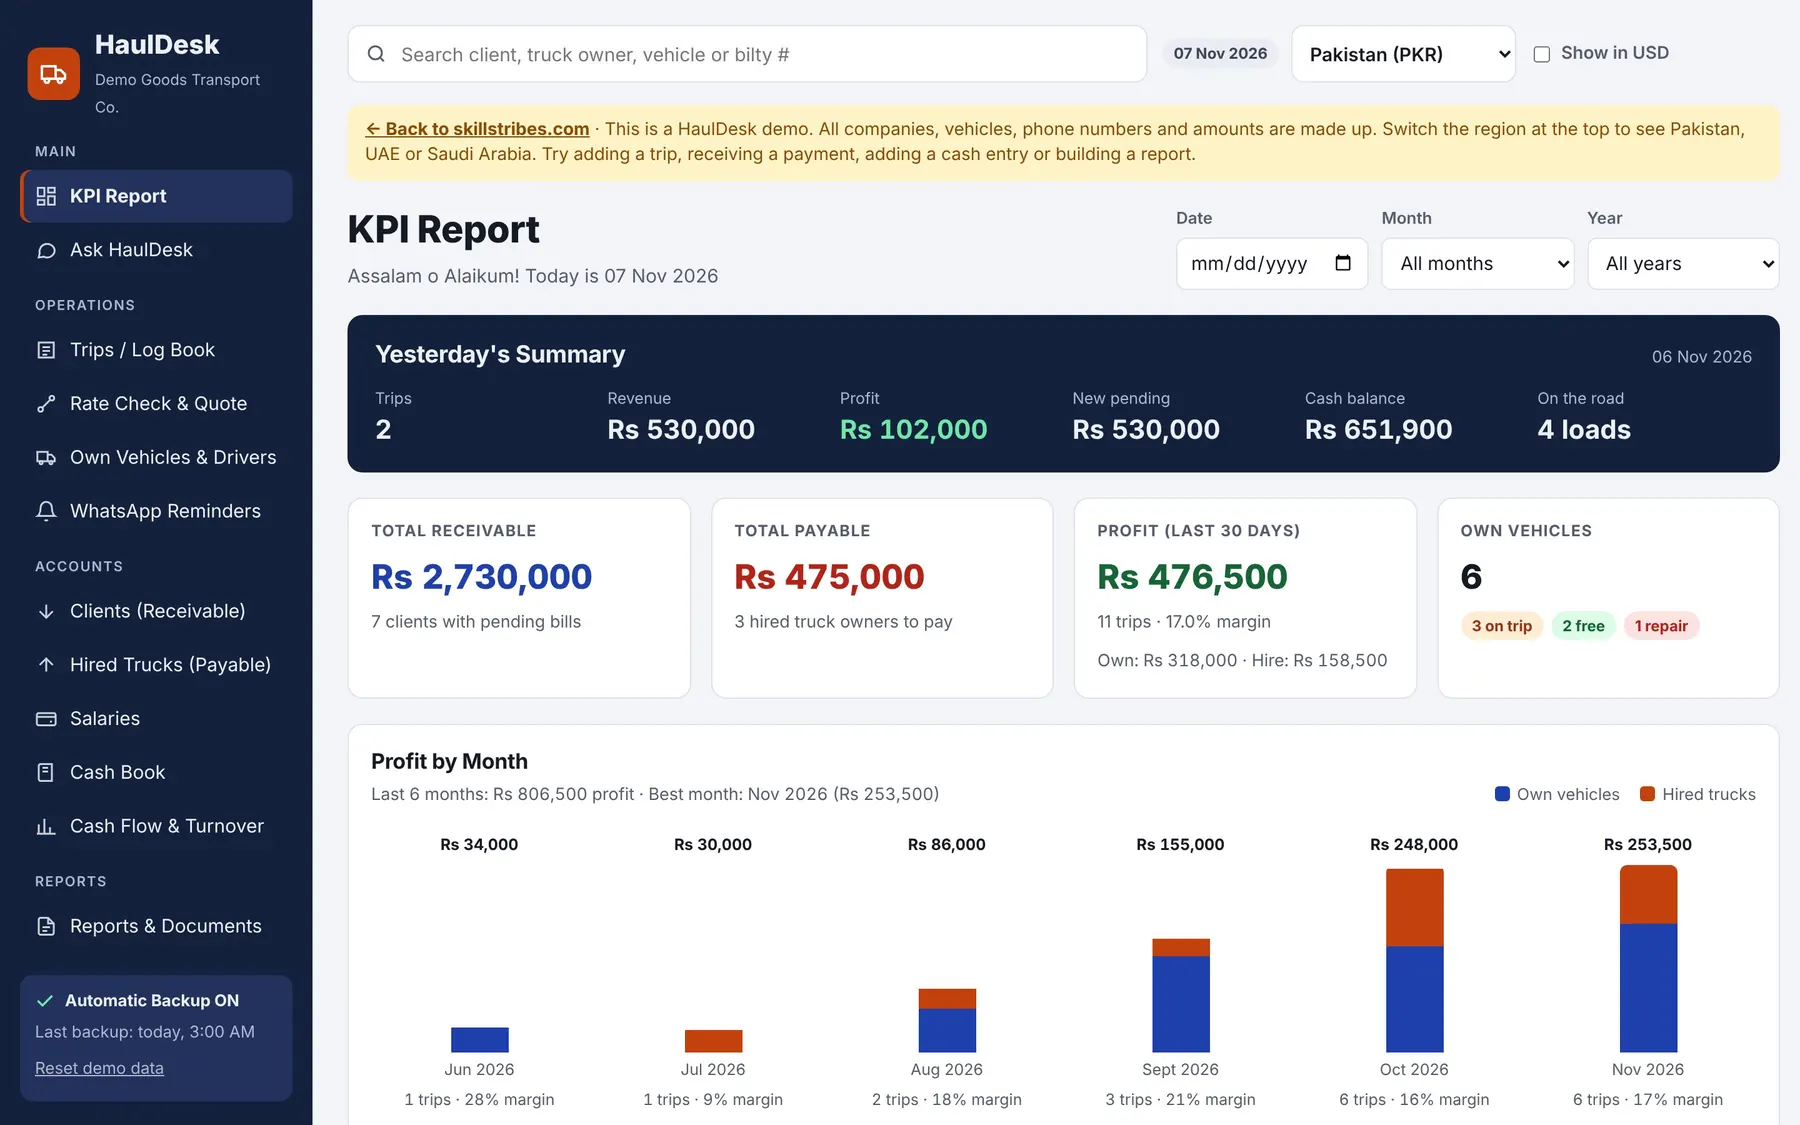
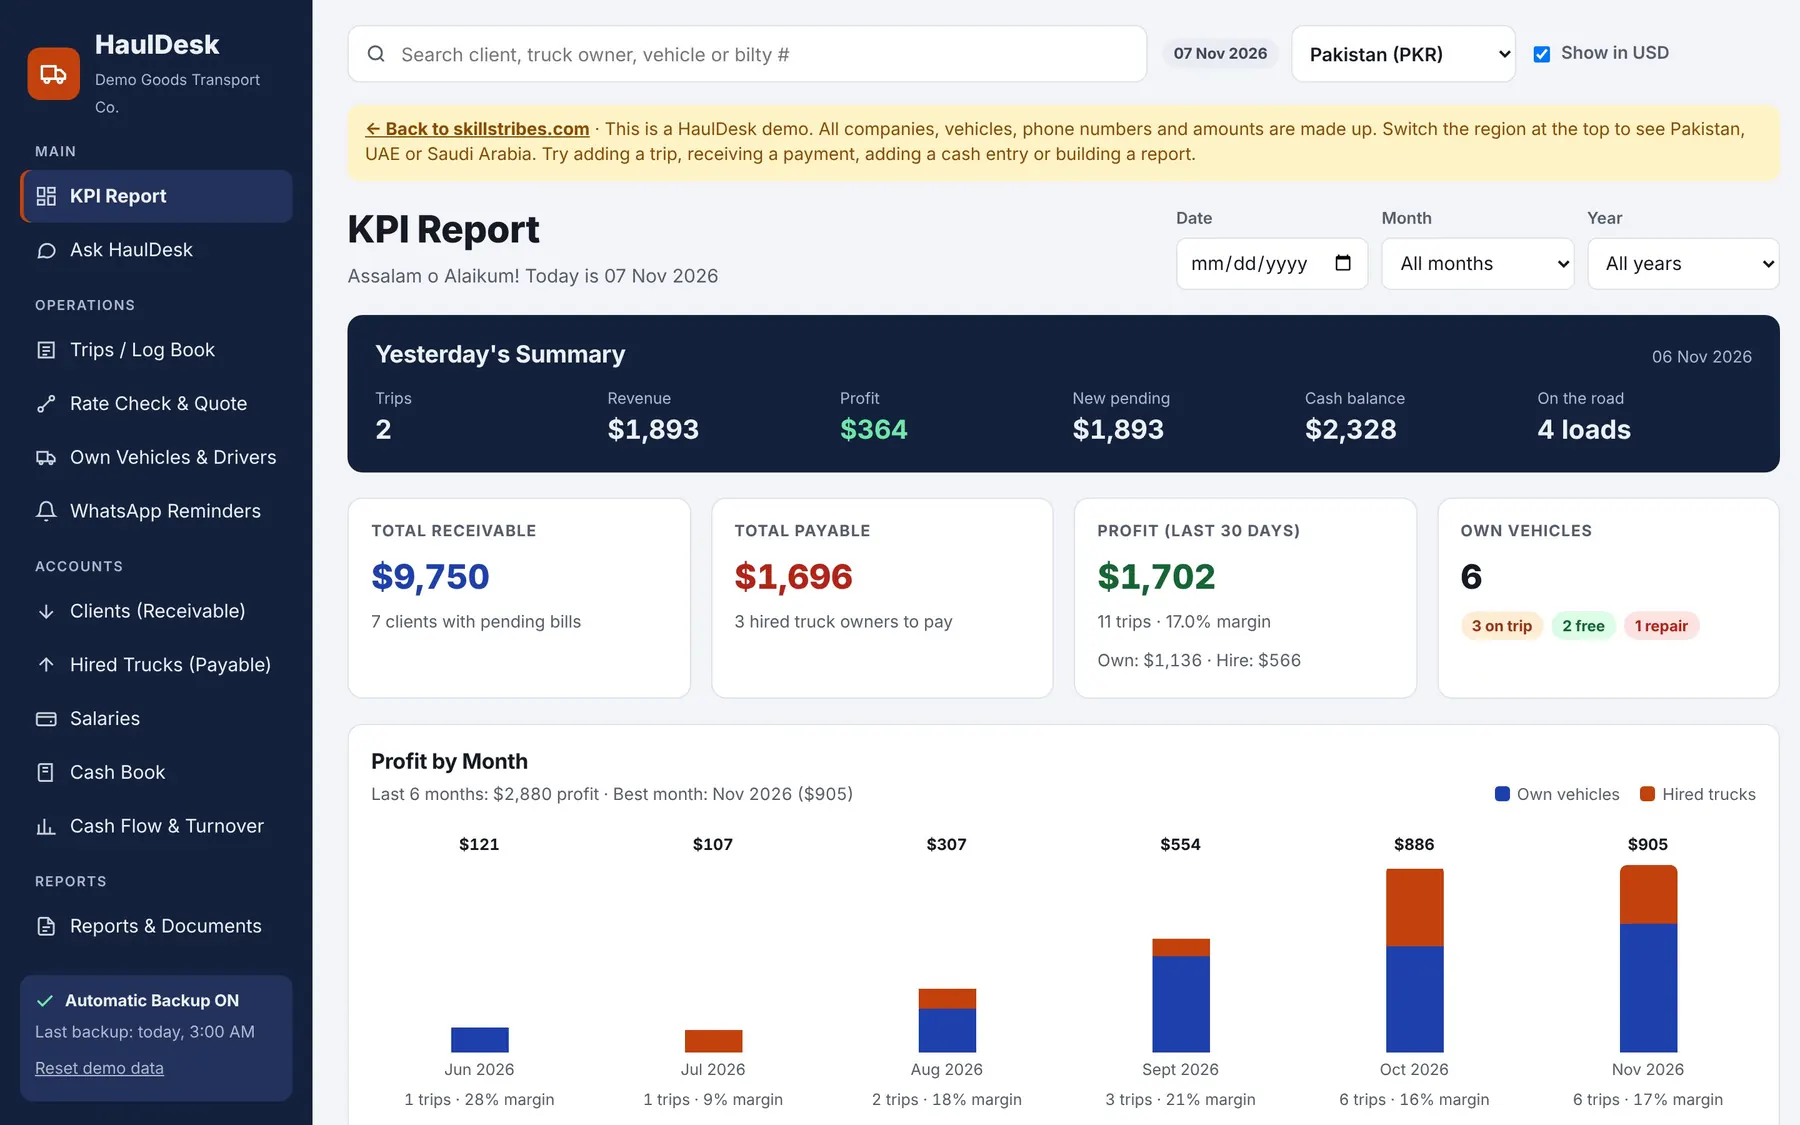
HaulDesk demo: show amounts in USD by default
Claude-Session: https://claude.ai/code/session_01M1yY9LcUB3ky4LG6SQ3n4a

diff --git a/hauldesk/demo/index.html b/hauldesk/demo/index.html
@@ -310,7 +310,7 @@ select.status{height:34px; border-radius:7px; border:1px solid var(--line); back
 <script src="https://cdnjs.cloudflare.com/ajax/libs/xlsx/0.18.5/xlsx.full.min.js"></script>
 <script>
 (function(){
-const LS='hauldesk-demo-v5';
+const LS='hauldesk-demo-v6';
 const pad=n=>String(n).padStart(2,'0');
 const today=new Date(); today.setHours(0,0,0,0);
 const iso=d=>d.getFullYear()+'-'+pad(d.getMonth()+1)+'-'+pad(d.getDate());
@@ -497,7 +497,7 @@ function seed(reg){
 
 let S, DB;
 try{ DB=JSON.parse(localStorage.getItem(LS)||'null'); }catch(e){ DB=null; }
-if(!DB||!DB.data) DB={region:'PK',usd:false,data:{}};
+if(!DB||!DB.data) DB={region:'PK',usd:true,data:{}};
 REG=RG[DB.region]?DB.region:'PK'; USD=!!DB.usd; applyRegion();
 if(!DB.data[REG]||!DB.data[REG].trips||!DB.data[REG].office) DB.data[REG]=seed(REG);
 S=DB.data[REG];
